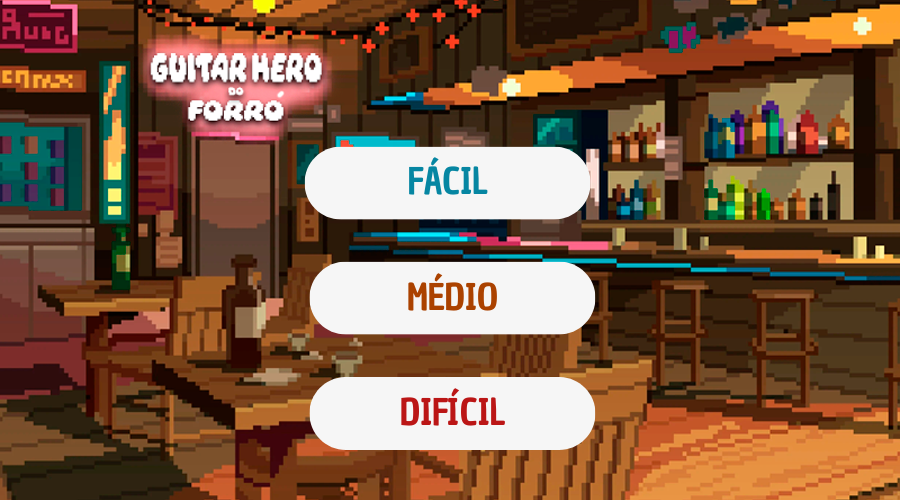
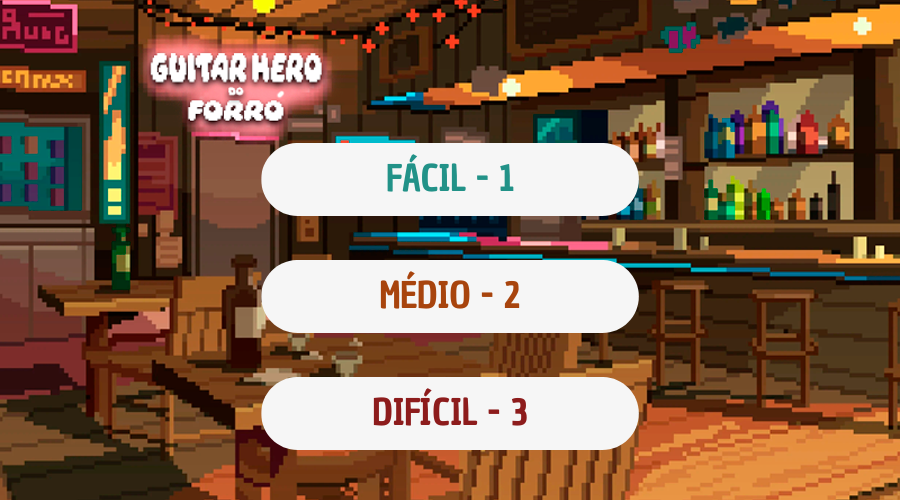
checkpoint: menu

diff --git a/main.py b/main.py
@@ -12,12 +12,6 @@ class Star(Image):
 		if self.y > 500:
 			return True
 
-class Fundo(Image):
-    def __init__(self):
-        self.y = 250
-        self.x = 450
-        self.file = 'bg.png'
-
 class HitBox(Image):
 	def __init__(self, x: float, y: float, file: str, angle: int) -> None:
 		self.x = x
@@ -37,80 +31,76 @@ class PersonagemAssets(Image):
 	q -> mais à esquerda
 	r -> mais à direita
 """
-
-def update():
-	global NotasEsquerda
-	global NotasDireita
-	for i in NotasEsquerda:
-		""" Função para deletar nota ao passar de y 450 """
-		if i.y > 450:
-			NotasEsquerda.remove(i)
-			i.destroy()
-		if i.update():
-			NotasEsquerda.remove(i)
-			i.destroy()
-	for i in NotasDireita:
-		""" Função para deletar nota ao passar de y 450 """
-		if i.y > 450:
-			NotasDireita.remove(i)
-			i.destroy()
-		if i.update():
-			NotasDireita.remove(i)
-			i.destroy()
-   	#Partitura para mais à esquerda
-	if keyboard.is_key_just_down('Left') and len(NotasEsquerda) != 0:
-		if h[0].y / NotasEsquerda[0].y >= 0.95 and h[0].y / NotasEsquerda[0].y <= 1.18:
-			NotasEsquerda[0].y += 501
-			scorePlayer.increment(10)
-			randomNumero = random.randint(1, 38)
-			personagem.file = f'Personagem{randomNumero}.png'
-		else:
-			NotasEsquerda[0].y += 501
-			scorePlayer.decrement(5)
-   
-   	#Partitura para mais à direita
-	if keyboard.is_key_just_down('Right') and len(NotasDireita) != 0:
-		if h[1].y / NotasDireita[0].y >= 0.95 and h[1].y / NotasDireita[0].y <= 1.18:
-			NotasDireita[0].y += 501
-			scorePlayer.increment(10)
-			randomNumero = random.randint(1, 38)
-			personagem.file = f'Personagem{randomNumero}.png'
-		else:
-			NotasDireita[0].y += 501
-			scorePlayer.decrement(5)
-   
+menu = Menu()
 
 
-"""
-	É possível fazer notas aleatórias usando randomint e definindo um intervalo de x à y pra cada Nota.
-	Lembrando que o código funciona por ordem, então a nota de posição 1 no array NÃO PODE estar em uma
-	Posição maior que a nota de posição 0.
-"""
-bg = Fundo()
-h = [HitBox(100, 400, 'HitBoxArrow.png', 0), HitBox(200, 400, 'HitBoxArrow.png', 180)]
+if menu._end == True:
+	def update():
+		global NotasEsquerda
+		global NotasDireita
+		for i in NotasEsquerda:
+			if i.update():
+				NotasEsquerda.remove(i)
+				i.destroy()
+		for i in NotasDireita:
+			if i.update():
+				NotasDireita.remove(i)
+				i.destroy()
+		#Partitura para mais à esquerda
+		if keyboard.is_key_just_down('Left') and len(NotasEsquerda) != 0:
+			if h[0].y / NotasEsquerda[0].y >= 0.95 and h[0].y / NotasEsquerda[0].y <= 1.18:
+				NotasEsquerda[0].y += 501
+				scorePlayer.increment(10)
+				randomNumero = random.randint(1, 38)
+				personagem.file = f'Personagem{randomNumero}.png'
+			else:
+				NotasEsquerda[0].y += 501
+				scorePlayer.decrement(5)
+	
+		#Partitura para mais à direita
+		if keyboard.is_key_just_down('Right') and len(NotasDireita) != 0:
+			if h[1].y / NotasDireita[0].y >= 0.95 and h[1].y / NotasDireita[0].y <= 1.18:
+				NotasDireita[0].y += 501
+				scorePlayer.increment(10)
+				randomNumero = random.randint(1, 38)
+				personagem.file = f'Personagem{randomNumero}.png'
+			else:
+				NotasDireita[0].y += 501
+				scorePlayer.decrement(5)
+	
 
-#Partitura para mais à esquerda
-NotasEsquerda = []
-ValorPartituraEsquerda = -50
 
-for i in range(30):
-    varIntermediaria = ValorPartituraEsquerda -100
-    random1 = random.randint(varIntermediaria, ValorPartituraEsquerda)
-    NotasEsquerda.append(Notes(100, random1, 'Notes.png',0, 3))
-    ValorPartituraEsquerda -= 100
+	"""
+		É possível fazer notas aleatórias usando randomint e definindo um intervalo de x à y pra cada Nota.
+		Lembrando que o código funciona por ordem, então a nota de posição 1 no array NÃO PODE estar em uma
+		Posição maior que a nota de posição 0.
+	"""
+	
 
-#Partitura para mais à direita
-NotasDireita = []
-ValorPartituraDireita = -50
+	h = [HitBox(100, 400, 'HitBoxArrow.png', 0), HitBox(200, 400, 'HitBoxArrow.png', 180)]
+	#Partitura para mais à esquerda
+	NotasEsquerda = []
+	ValorPartituraEsquerda = -50
 
-for i in range(45):
-    varIntermediaria = ValorPartituraDireita -75
-    random1 = random.randint(varIntermediaria, ValorPartituraDireita)
-    NotasDireita.append(Notes(200, random1, 'Notes2.png',180, 5))
-    ValorPartituraDireita -= 75
+	for i in range(30):
+		varIntermediaria = ValorPartituraEsquerda -100
+		random1 = random.randint(varIntermediaria, ValorPartituraEsquerda)
+		NotasEsquerda.append(Notes(100, random1, 'Notes.png',0, 3))
+		ValorPartituraEsquerda -= 100
+
+	#Partitura para mais à direita
+	NotasDireita = []
+	ValorPartituraDireita = -50
+
+	for i in range(45):
+		varIntermediaria = ValorPartituraDireita -75
+		random1 = random.randint(varIntermediaria, ValorPartituraDireita)
+		NotasDireita.append(Notes(200, random1, 'Notes2.png',180, 5))
+		ValorPartituraDireita -= 75
+	global personagem
+	personagem = PersonagemAssets('Personagem1.png')
+	scorePlayer = Score()
 
 
-global personagem
-personagem = PersonagemAssets('Personagem1.png')
-scorePlayer = Score()
+
 run(globals())

diff --git a/menu.py b/menu.py
@@ -3,22 +3,20 @@ from tupy import *
 class Menu(BaseImage):
     def __init__(self):
         super().__init__('start.png', 450, 250)
+        self._end = False
     def update(self):
-        if (320 < mouse.x < 580) and (200 < mouse.y < 250):
-            if mouse.is_button_down():
-                self._file = 'dificult.png'
+        if keyboard.is_key_just_down('space'):
+              self._file = 'dificult.png'
         if self._file == 'dificult.png':
-            """ funcao para iniciar modo facil """
-            if (320 < mouse.x < 580) and (140 < mouse.y < 218):
-                if mouse.is_button_down():
-                    return
-            """ funcao para iniciar modo medio """
-            if (320 < mouse.x < 580) and (263 < mouse.y < 333):
-                if mouse.is_button_down():
-                    return
-            """ funcao para iniciar modo dificil """
-            if (320 < mouse.x < 580) and (376 < mouse.y < 450):
-                if mouse.is_button_down():
-                    return 
+            if keyboard.is_key_just_down('1'):
+                    """ implementar função da dificuldade fácil """
+                    self._file = 'bg.png'
+                    self._end = True
+            if keyboard.is_key_just_down('2'):
+                    """ implementar função da dificuldade média """
+                    self._file = 'bg.png'
+            if keyboard.is_key_just_down('3'):
+                    """ implementar função da dificuldade difícil """
+                    self._file = 'bg.png'
 
     

diff --git a/teste.py b/teste.py
@@ -1,0 +1,6 @@
+from menu import Menu
+from tupy import *
+
+menu = Menu()
+
+run(globals())
